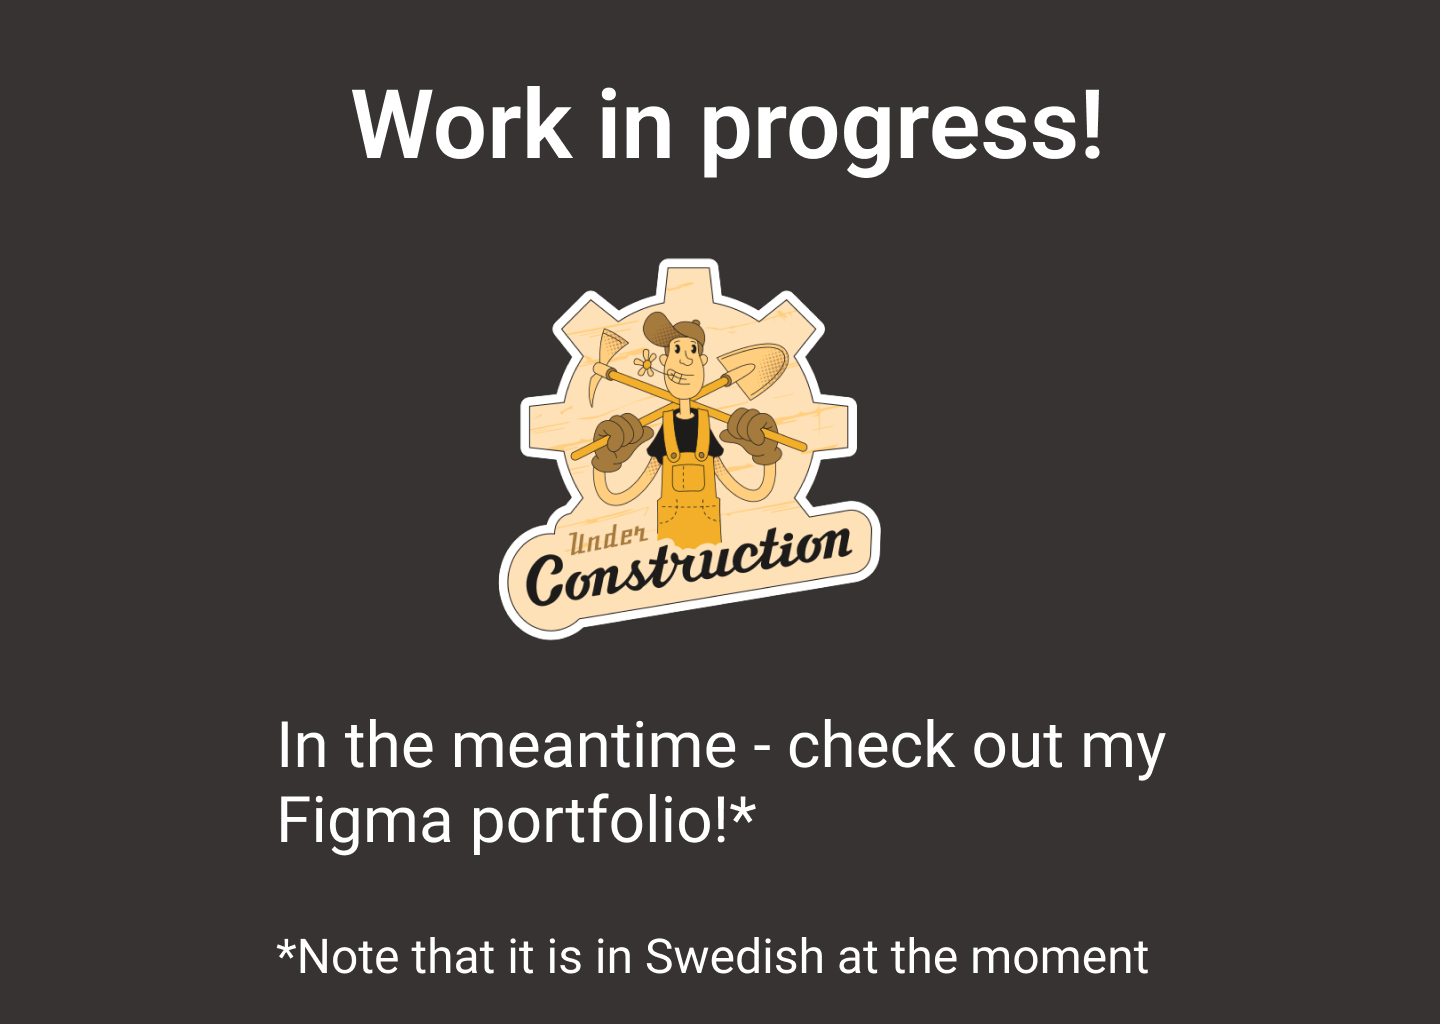
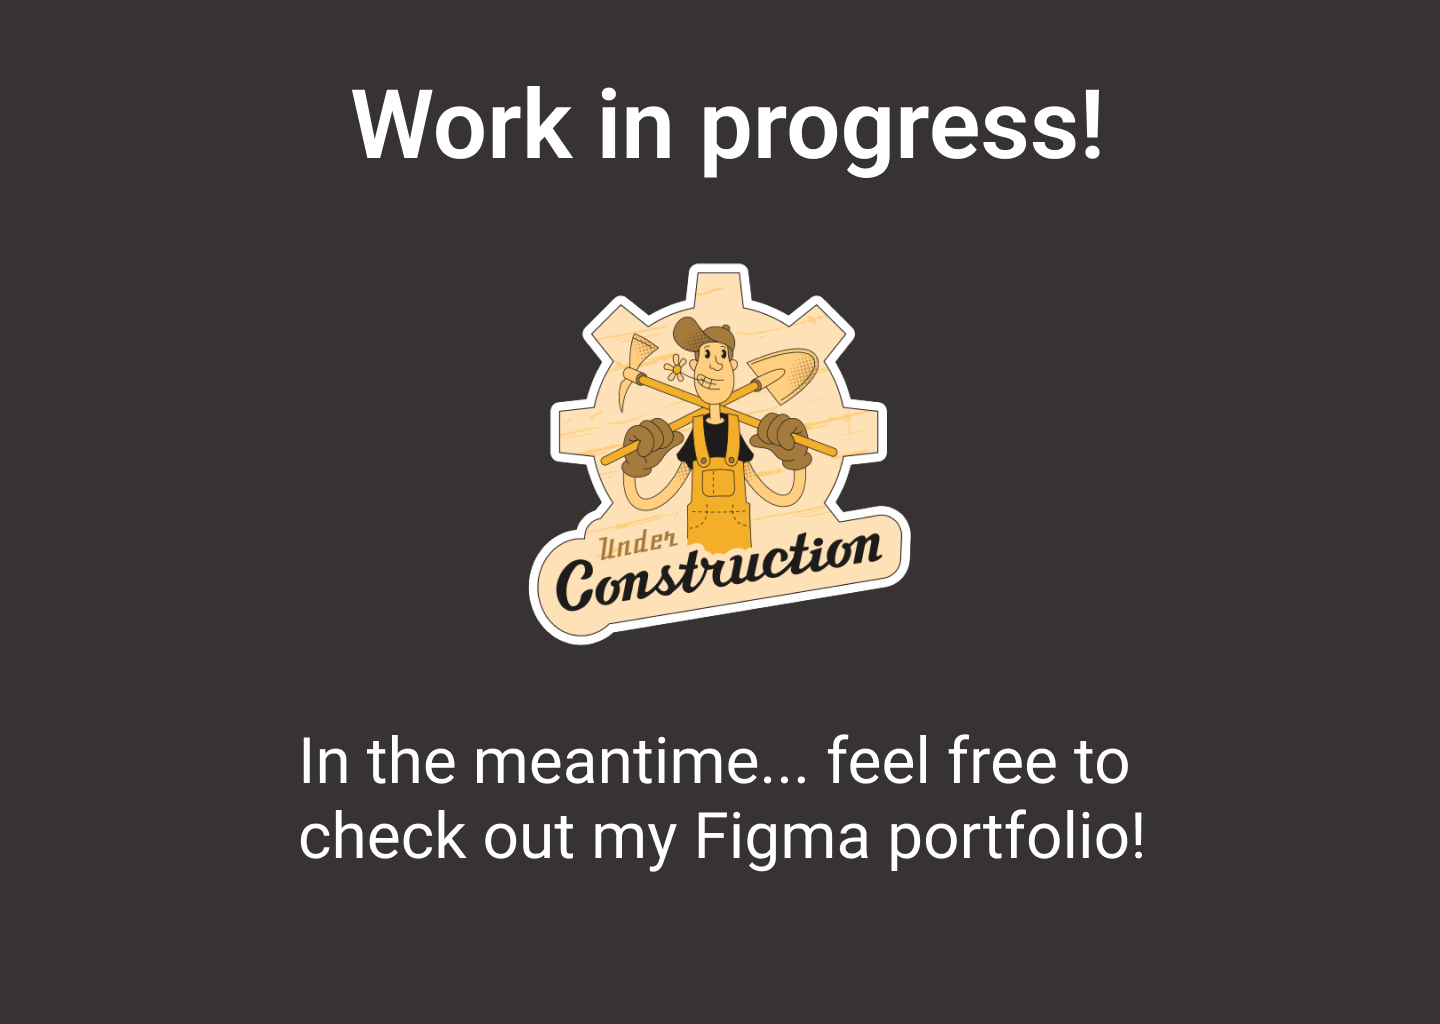
Minor adjustments

Changed region(s): [[0.3438, 0.25, 0.6562, 0.625], [0.1875, 0.6875, 0.8125, 0.8438], [0.1875, 0.9062, 0.8125, 0.9688]]

diff --git a/desktop.css b/desktop.css
@@ -105,11 +105,11 @@ p {
   color: var(--body-color);
   background: var(--container-color);
   border-radius: 1.5rem;
+  transition: 0.4s all ease ease-in-out;
 }
 
 .scroll-back-to-top .bx:hover {
   background: var(--box-color);
-  transition: 0.4s all ease ease-in-out;
 }
 
 .scroll-active {
@@ -157,7 +157,7 @@ p {
   border-radius: 0.4rem;
   margin-top: 1rem;
   font-family: "Poppins", sans-serif;
-  transition: 0.4s all ease ease-in-out;
+  transition: 0.8s all ease ease-in-out;
 }
 
 .btn .bx {
@@ -165,7 +165,8 @@ p {
 }
 
 .btn:hover {
-  background: var(--box-color);
+  box-shadow: rgba(34, 105, 236, 0.4) 5px 5px, rgba(34, 105, 236, 0.3) 10px 10px, rgba(34, 105, 236, 0.2) 15px 15px, rgba(34, 105, 236, 0.1) 20px 20px, rgba(34, 105, 236, 0.05) 25px 25px;
+  
 }
 
 .about-text p {

diff --git a/header+home.css b/header+home.css
@@ -43,12 +43,12 @@ header {
   color: var(--text-color);
   font-family: "Poppins", sans-serif;
   font-weight: 600;
+  transition: 0.8ms linear;
 }
 
 .nav-link:hover {
   color: white;
   background: var(--container-color);
-  transition: 0.3s all linear;
 }
 
 /* HAMBURGER MENU ICON */
@@ -165,6 +165,7 @@ header {
 .social {
   align-items: center;
   column-gap: 0.5rem;
+  transition: 0.4s all ease ease-in-out;
 }
 
 .social .bx {
@@ -173,7 +174,6 @@ header {
   border-radius: 50%;
   color: var(--body-color);
   background: var(--container-color);
-  transition: 0.4s all ease ease-in-out;
 }
 
 .social .bx:hover {

diff --git a/homepage.html b/homepage.html
@@ -152,7 +152,7 @@
         <i class='bx bxl-sketch'></i>
         <h2 class="heading-font">UX | UI Design</h2>
         <p>UX design is something I am familiar with due to my three years of studying at Halmstad university. UX and UI are both important parts, and I believe a designer needs both to succeed well in a design process. 
-        I present my design projects in a Figma portfolio below. Please note that it is currently in Swedish though.</p>
+        I present my design projects in a Figma portfolio below.</p>
       </div>
         <div class="skills-box">
           <i class='bx bxs-extension'></i>

diff --git a/portfolio+skills.css b/portfolio+skills.css
@@ -88,14 +88,14 @@
   background: var(--accent-color);
   color: var(--body-color);
   border-radius: 0.25rem;
+  transition: 0.8ms linear;
 }
 
 .portfolio-overlay .bx:hover {
   background: var(--container-color);
-  transition: 0.3s ease-in-out;
 }
 
 .portfolio-box:hover .portfolio-overlay {
   bottom: 0;
-  transition: 0.5s ease-in-out;
+  transition: 0.6s ease-in-out;
 }

diff --git a/landing-page.css b/landing-page.css
@@ -1,8 +1,14 @@
 @import url("https://fonts.googleapis.com/css2?family=Poppins:wght@400;500;600;700&display=swap");
 @import url("https://fonts.googleapis.com/css2?family=Manrope:wght@400;500;600;700&display=swap");
 
+* {
+  margin: 0;
+  padding: 0;
+  box-sizing: border-box;
+}
+
+
 body {
-  height: 100%;
   background: #090a1a;
 }
 
